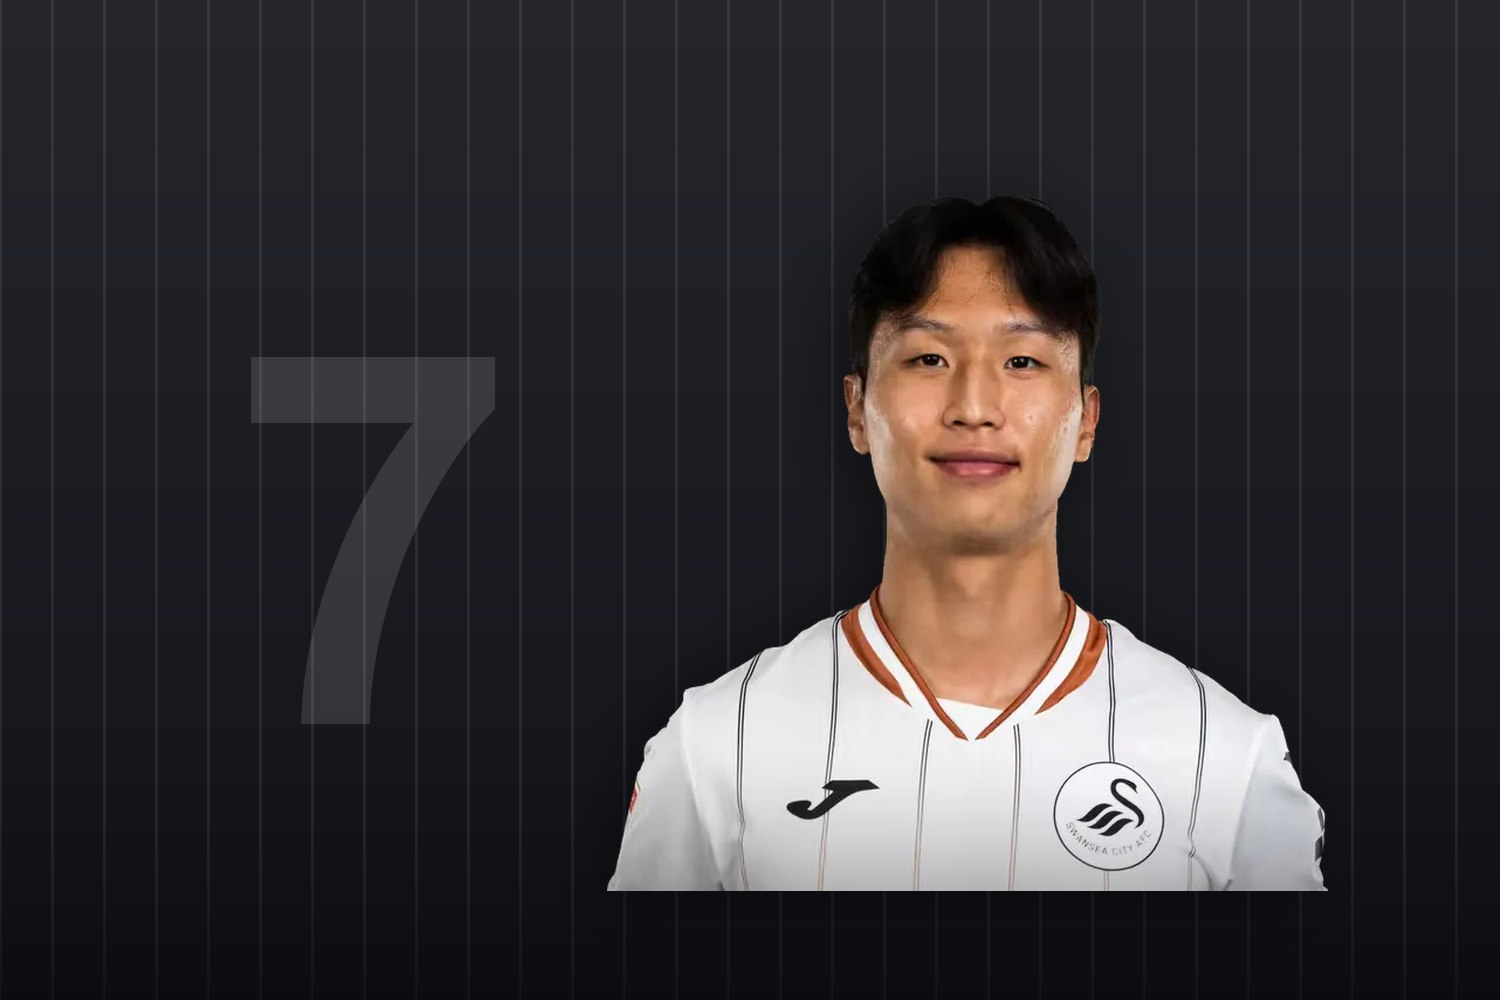
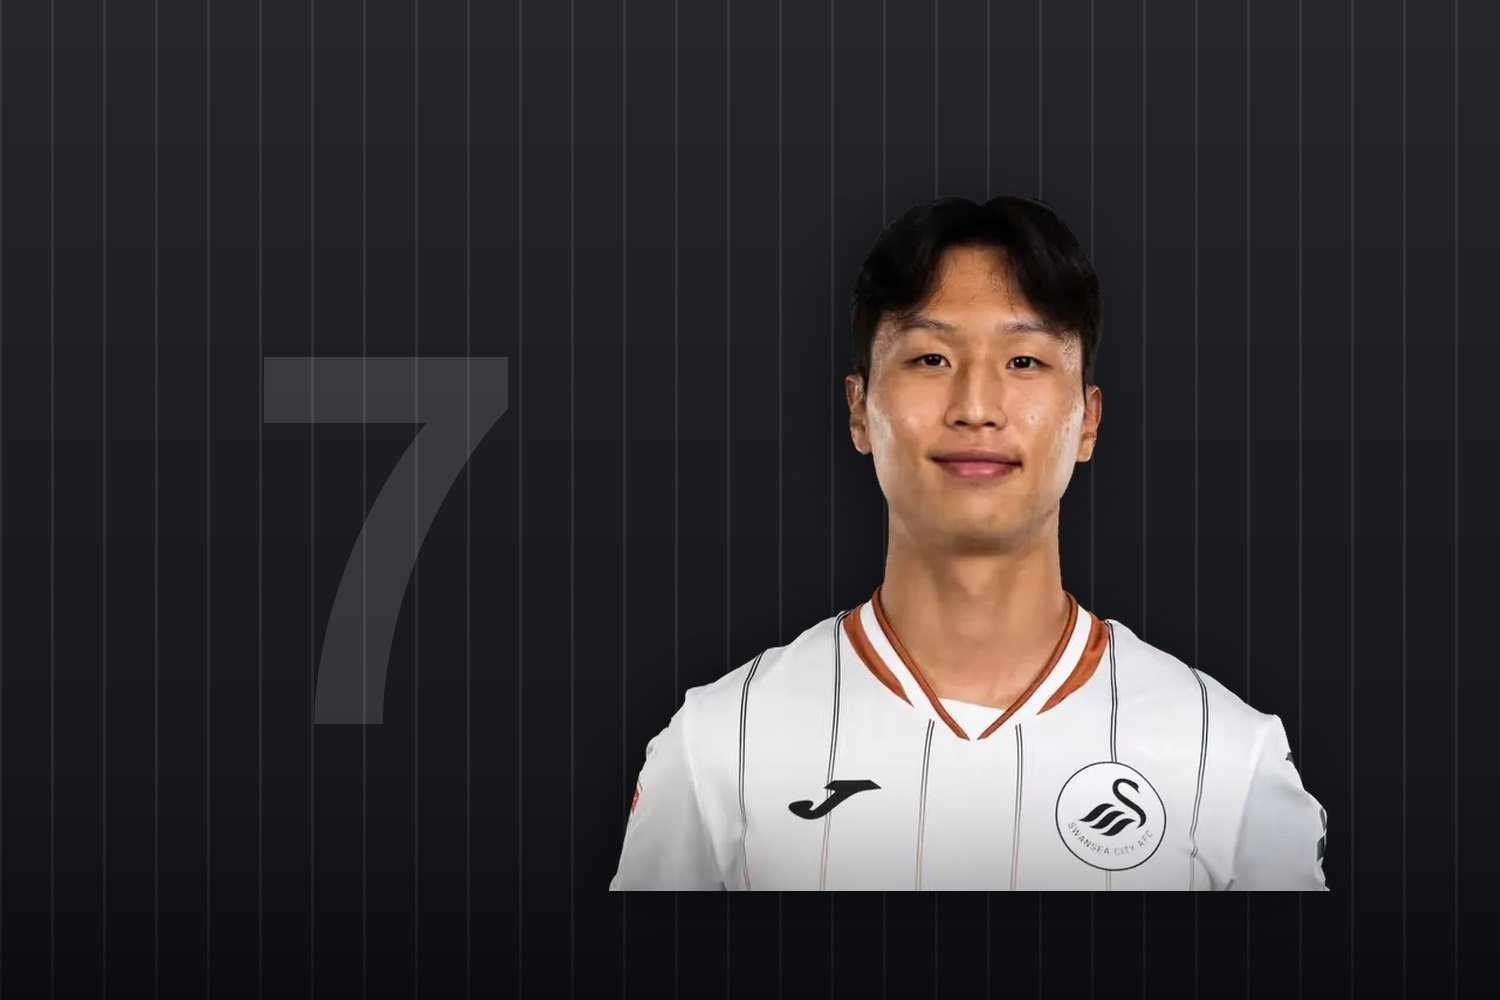
히어로 우측 정렬 보정 + 목록 스크롤 위치 기억
[히어로] 팔을 붙인 자세의 선수는 몸통이 덜 뻗어 우측이 비어 보였다
(이강인·김민재·조규성·배준호·설영우·양민혁·홍현석: 몸통 우측끝 1196~1298,
다른 선수 1330~1406). 머리 정렬(x=975)을 최소 기준으로 두되, 몸통
우측끝이 손흥민 라인(1330)에 닿도록 최대 85px까지 오른쪽으로 민다
— 머리가 과도하게 쏠리지 않으면서 7명 모두 1281~1330 으로 정렬.

[스크롤] 탭 화면은 상세 진입 시 언마운트돼 스크롤이 0으로 돌아갔다.
useScrollMemory 훅을 추가해 언마운트 시 scrollTop 을 저장하고 복귀 시
복원(데이터 지연 대비 rAF 재시도 포함). home·schedule·players·news 적용,
탭 재탭으로 맨 위 이동 시엔 기억값도 초기화.
검증: 선수 목록 700px → 상세 진입 → 복귀 700px 유지.

diff --git a/index.html b/index.html
@@ -1913,7 +1913,8 @@ function TodayMatchesCarousel({ todayMatches, matches, now, onMatch, tweaks }) {
 // ─── SCREEN: HOME V2 — Editorial ─────────────────────────────
 function HomeV2({ onMatch, onPlayer, onNotif, tweaks, liveApiMatches = [], isLoading = false, scrollTopKey = 0, onRefresh, unreadCount = 0, nativeTabBar = false }) {
   const homeScrollRef = React.useRef(null);
-  React.useEffect(() => { if (scrollTopKey > 0) homeScrollRef.current?.scrollTo({ top: 0, behavior: 'smooth' }); }, [scrollTopKey]);
+  React.useEffect(() => { if (scrollTopKey > 0) { SCROLL_MEM.home = 0; homeScrollRef.current?.scrollTo({ top: 0, behavior: 'smooth' }); } }, [scrollTopKey]);
+  useScrollMemory('home', homeScrollRef);
   // Pull-to-refresh
   const [pullY, setPullY] = React.useState(0);
   const [refreshing, setRefreshing] = React.useState(false);
@@ -4478,7 +4479,8 @@ function ScheduleScreen({ onMatch, liveApiMatches = [], isLoading = false, onRef
   }, [isActive]);
 
   // Scroll to top when tab tapped
-  React.useEffect(() => { if (scrollTopKey > 0) scrollRef.current?.scrollTo({ top: 0, behavior: 'smooth' }); }, [scrollTopKey]);
+  React.useEffect(() => { if (scrollTopKey > 0) { SCROLL_MEM.schedule = 0; scrollRef.current?.scrollTo({ top: 0, behavior: 'smooth' }); } }, [scrollTopKey]);
+  useScrollMemory('schedule', scrollRef);
 
   // Keep the selected date centered in the strip when it changes (tap or swipe).
   React.useEffect(() => {
@@ -4738,7 +4740,8 @@ function PlayersScreen({ onPlayer, onAdd, followed, statsCache = {}, isLoading =
   const touchStartY = React.useRef(0);
   const scrollRef = React.useRef(null);
   const PULL_THRESHOLD = 64;
-  React.useEffect(() => { if (scrollTopKey > 0) scrollRef.current?.scrollTo({ top: 0, behavior: 'smooth' }); }, [scrollTopKey]);
+  React.useEffect(() => { if (scrollTopKey > 0) { SCROLL_MEM.players = 0; scrollRef.current?.scrollTo({ top: 0, behavior: 'smooth' }); } }, [scrollTopKey]);
+  useScrollMemory('players', scrollRef);
 
   const handleTouchStart = (e) => { touchStartY.current = e.touches[0].clientY; };
   const handleTouchMove = (e) => {
@@ -5018,6 +5021,29 @@ function NewsImage({ url, fallbackPlayer }) {
 
 // 외부 링크: 네이티브에선 인앱 브라우저(SFSafariViewController)로, 웹에선 새 탭.
 // 앱 밖(Safari)으로 튕기지 않아 돌아오기가 자연스럽다.
+// 탭 화면은 상세로 들어갈 때 언마운트된다 — 스크롤 위치를 기억했다가 돌아오면 복원.
+const SCROLL_MEM = {};
+function useScrollMemory(key, ref) {
+  React.useLayoutEffect(() => {
+    const el = ref.current;
+    const saved = SCROLL_MEM[key];
+    if (el && saved) {
+      el.scrollTop = saved;
+      // 데이터가 늦게 채워져 높이가 아직 모자란 경우를 위해 몇 프레임 더 시도
+      let tries = 0;
+      const retry = () => {
+        if (!ref.current || tries++ > 8) return;
+        if (Math.abs(ref.current.scrollTop - saved) > 2 && ref.current.scrollHeight > saved) {
+          ref.current.scrollTop = saved;
+        }
+        requestAnimationFrame(retry);
+      };
+      requestAnimationFrame(retry);
+    }
+    return () => { if (ref.current) SCROLL_MEM[key] = ref.current.scrollTop; };
+  }, [key]);
+}
+
 function openExternal(url) {
   // 네이티브(iOS): 시트로 띄우는 커스텀 핸들러 — 아래에서 위로 올라오고
   // 아래로 스와이프해 닫힌다. @capacitor/browser 는 fullScreen/popover 만
@@ -5142,7 +5168,8 @@ function NewsScreen({ sportFeeds, scrollTopKey = 0, followedNames }) {
   const touchStartY = React.useRef(0);
   const scrollRef = React.useRef(null);
   const PULL_THRESHOLD = 64;
-  React.useEffect(() => { if (scrollTopKey > 0) scrollRef.current?.scrollTo({ top: 0, behavior: 'smooth' }); }, [scrollTopKey]);
+  React.useEffect(() => { if (scrollTopKey > 0) { SCROLL_MEM.news = 0; scrollRef.current?.scrollTo({ top: 0, behavior: 'smooth' }); } }, [scrollTopKey]);
+  useScrollMemory('news', scrollRef);
 
   const handleTouchStart = (e) => { touchStartY.current = e.touches[0].clientY; };
   const handleTouchMove = (e) => {
